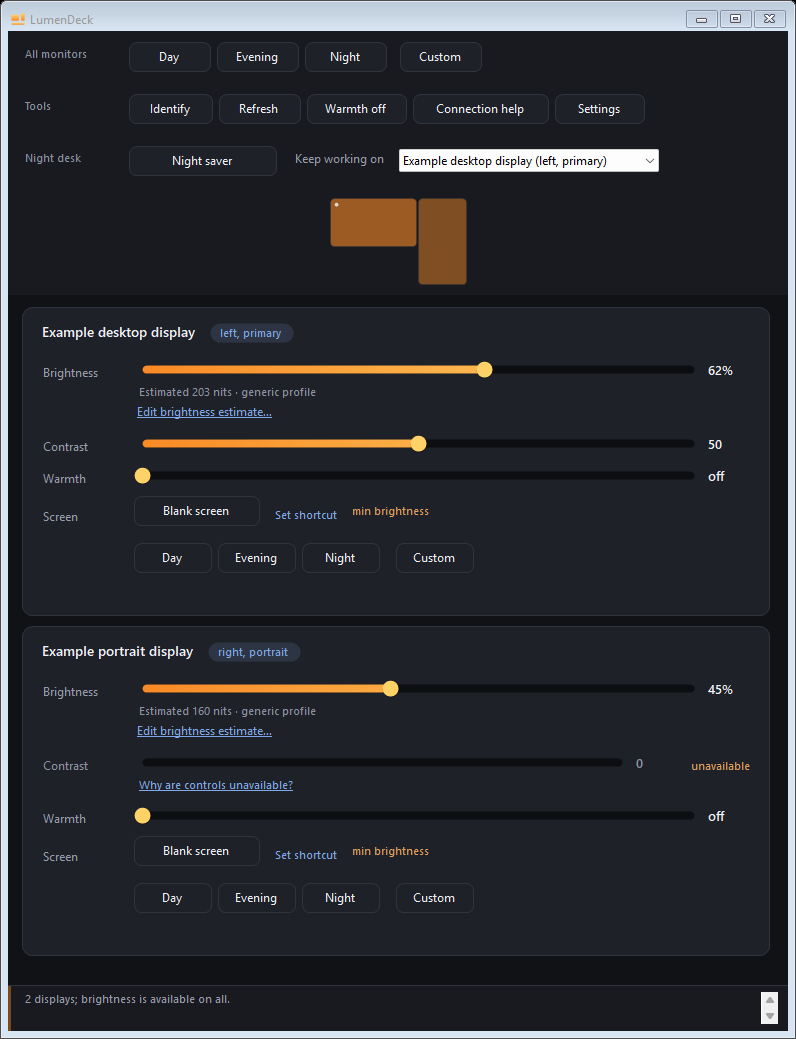
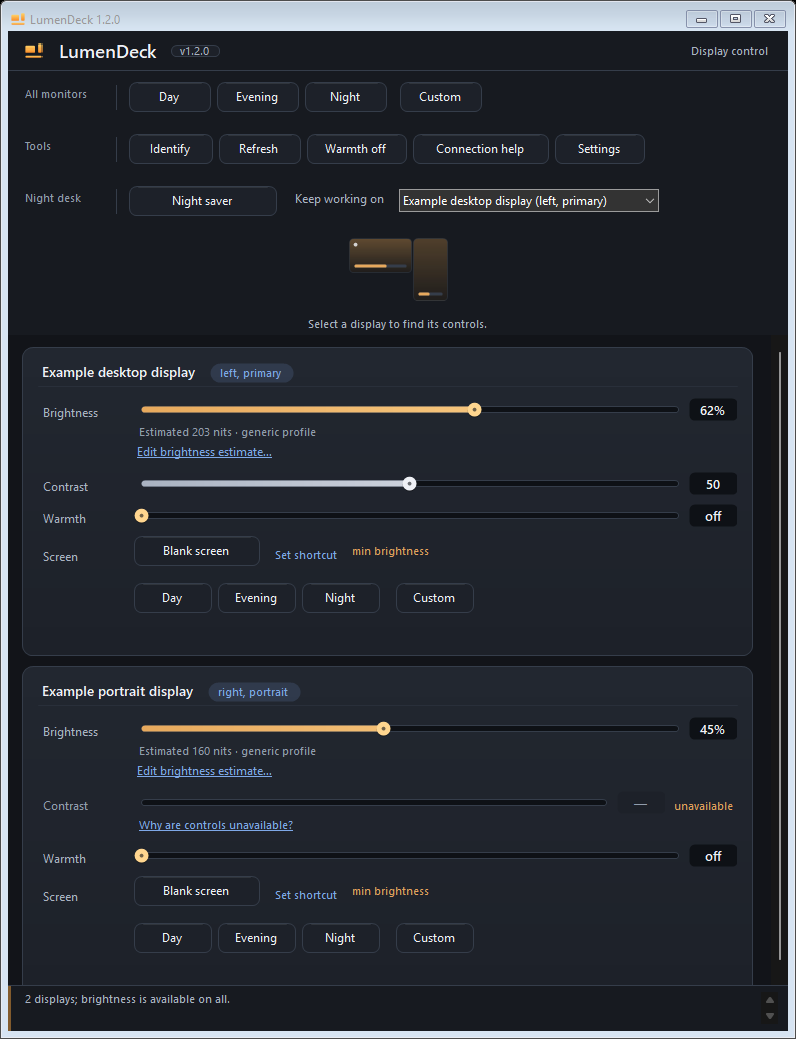
Record the verified 1.2.0 desktop candidate and refresh its UI preview

diff --git a/docs/release-readiness.md b/docs/release-readiness.md
@@ -6,9 +6,22 @@ public release approval.
 
 ## Recorded candidate
 
-The new source snapshot is ready. The source revision, build, portable archive
-and SHA-256 will be recorded here after packaging verifies the actual binaries.
-No new GitHub release or tag has been created.
+| Item | Recorded value |
+| --- | --- |
+| Source commit | `ff270aca924369511225c09c7345d0b12ed19b3c` - refined native UI, aligned map selection and current display-control features |
+| GUI recorded build | `1.2.0+ff270aca924369511225c09c7345d0b12ed19b3c` |
+| Package | `LumenDeck-1.2.0-win-x64.zip` |
[1 lines of base64/hex data omitted]
+| Distribution | Self-contained Windows x64 GUI and CLI |
+| File version | `1.2.0.0` for both executables |
+| Version status | Installed local candidate; source features remain Unreleased |
+
+The recorded source is the clean snapshot used for both executables. Subsequent
+checkpoint and preview updates change documentation only. Builder verification
+passed on the actual ZIP. The installed GUI/CLI hashes match its payload; the
+desktop shortcut targets the installed GUI. User settings and panel profiles
+were unchanged. The previous installed binaries and shortcut were backed up.
+No GitHub release or tag has been created.
 
 ## Source verification
 
@@ -37,6 +50,13 @@ synthetic GUI startup and recovery from refused package/installer inputs.
 recorded revision and digest to the archive and both actual executable payloads.
 See [packaging](packaging.md) for reproducible commands and their limits.
 
+The actual candidate passed package regressions for valid/tampered/extra/version
+inputs, environment restoration on injected launch failures and running-app
+installer refusal. Installer source-preflight and state-preservation fixtures
+also passed. These fixture results do not establish a transactional install or
+clean-machine download behavior. The owner-profile update is verified by binary
+hashes, shortcut targets, CLI help/version and unchanged settings/profile hashes.
+
 ## Remaining release acceptance
 
 | Area | Required evidence |
@@ -46,7 +66,7 @@ See [packaging](packaging.md) for reproducible commands and their limits.
 | Download/install | Clean Windows environment and separate-profile install/update/uninstall |
 | Download security | Exact-file unsigned-download and antivirus acceptance; no false-positive finding is claimed |
 | Review | Final source and release-critical content assessment; no whole-app approval is carried from older snapshots |
-| Hosted CI | Observe the actual run for the pushed source; local success does not prove hosted execution |
+| Hosted CI | Check the actual [build workflow](https://github.com/snowyukitty/LumenDeck/actions/workflows/build.yml) for the pushed source; local success does not prove hosted execution |
 | Publication | Explicit approval for the intended release, tag and downloadable assets |
 
 The [checkpoint](checkpoint.md) records current work and the next acceptance steps.

diff --git a/docs/checkpoint.md b/docs/checkpoint.md
@@ -37,9 +37,18 @@ physical display behavior, actual mixed-DPI transitions or screen-reader output.
 
 ## Distribution and repository state
 
-The 1.2.0 source snapshot is prepared for GitHub. Portable packaging, installed
-binary identity, shortcut verification and hosted CI will be recorded after they
-complete. No release or tag is created by this checkpoint.
+The source snapshot `ff270ac` produces the verified 1.2.0 Windows x64 portable
+candidate in release readiness. The owner-profile GUI and CLI were updated to
+that exact payload. Desktop and Start Menu shortcuts point to the installed GUI;
+CLI help/version pass, and settings/profile hashes stayed unchanged. Previous
+installed binaries and the desktop shortcut were preserved as a local backup.
+
+The completed source and documentation checkpoint is published to GitHub `main`.
+The private development history remains local; the public checkpoint begins
+from the previous public main and includes the current implementation, tests and
+maintainer-facing documentation. Inspect the actual
+[build workflow](https://github.com/snowyukitty/LumenDeck/actions/workflows/build.yml)
+for hosted results. No release or tag is created by this checkpoint.
 
 ## Remaining acceptance
 
@@ -53,5 +62,7 @@ No independent whole-app approval or physical display pass is claimed.
 
 Read this page and the candidate identity in release readiness first. Inspect the
 worktree and any active project lease, preserve unrelated edits and stage explicit
-paths. Use the verified source-bound binaries for further acceptance. Rebuild and
-record a new candidate if product or packaged content changes.
+paths. Use the verified source-bound binaries for further acceptance. The next
+work is physical display/DPI/reader acceptance and clean-machine release readiness,
+then an explicitly authorized release. Rebuild and record a new candidate if
+product or packaged content changes.

diff --git a/docs/ui-design.md b/docs/ui-design.md
@@ -6,6 +6,11 @@ cards add a subtle vertical gradient and a divider below the display identity.
 The shared theme owns colors and fonts, so reference windows and editors use
 the same visual vocabulary as the main window.
 
+On the lightest card surface, muted text has a calculated contrast ratio of
+7.01:1 and secondary text 5.39:1. Primary-button text is 8.87:1 against amber.
+These token calculations complement native render inspection; they do not
+establish a full accessibility audit or high-contrast-mode compatibility.
+
 Brightness and warmth use amber tracks; contrast uses a neutral track. Every
 slider has a framed value readout, a small grip and an explicit focus ring.
 Unavailable sliders show a dash visually, alongside the existing availability

diff --git a/README.md b/README.md
@@ -37,7 +37,7 @@ lumendeck-cli -m "left" -b 55 -w 5000
   <img src="docs/assets/screenshot.png" alt="LumenDeck development build with Settings, a desk map and two fictitious monitor cards: brightness estimates, contrast availability, warmth, blackout and per-monitor presets" width="620">
 </p>
 
-<p align="center"><sub>Actual window rendered from development source <code>6b25896</code>,
+<p align="center"><sub>Actual window rendered from development source <code>ff270ac</code>,
 using two fictitious displays; released versions may differ.
 <a href="docs/assets/screenshot.json">Render details</a>.<br>
 62% and 45% calculate <b>estimated 203 and 160 nits</b> from generic profiles.
